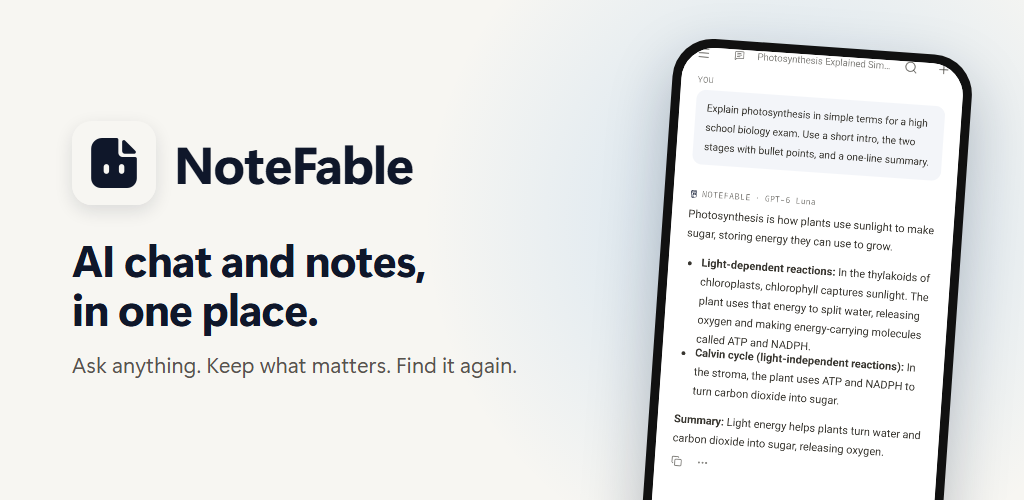
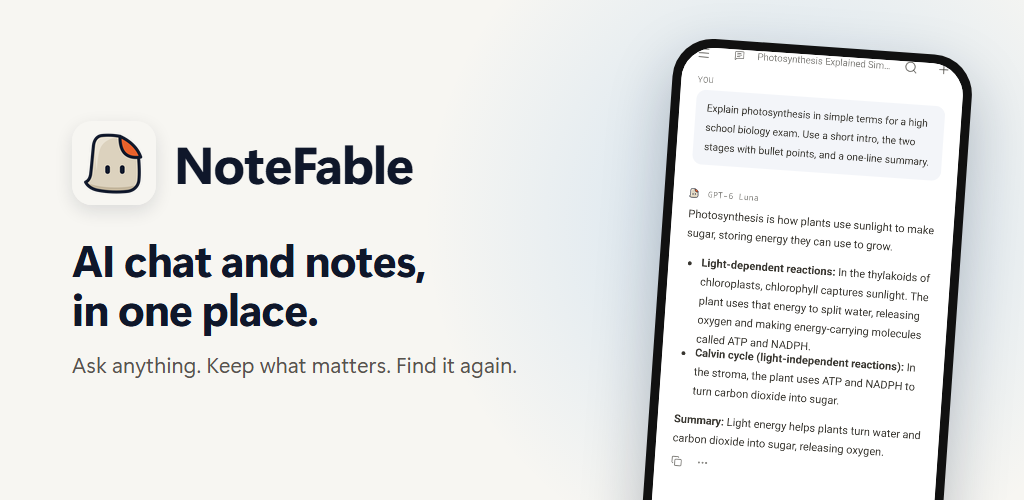
Unify the website, Android launcher and store artwork on Quill

Changed region(s): [[0.0625, 0.27, 0.1562, 0.39], [0.6875, 0.39, 0.7812, 0.42], [0.6562, 0.36, 0.6875, 0.39]]

diff --git a/mobile/android/app/src/main/java/com/kakumine/notefable/ui/Lucide.kt b/mobile/android/app/src/main/java/com/kakumine/notefable/ui/Lucide.kt
@@ -7,12 +7,10 @@ import androidx.compose.runtime.remember
 import androidx.compose.ui.Modifier
 import androidx.compose.ui.geometry.Offset
 import androidx.compose.ui.graphics.Color
-import androidx.compose.ui.graphics.PathFillType
 import androidx.compose.ui.graphics.StrokeCap
 import androidx.compose.ui.graphics.StrokeJoin
 import androidx.compose.ui.graphics.drawscope.Stroke
 import androidx.compose.ui.graphics.drawscope.scale
-import androidx.compose.ui.graphics.drawscope.translate
 import androidx.compose.ui.graphics.vector.PathParser
 import androidx.compose.ui.platform.LocalLayoutDirection
 import androidx.compose.ui.unit.Dp
@@ -284,35 +282,6 @@ fun LucideIcon(
             scale(this.size.width / 24f, pivot = Offset.Zero) {
                 val stroke = Stroke(width = strokeWidth, cap = StrokeCap.Round, join = StrokeJoin.Round)
                 parsed.forEach { drawPath(it, tint, style = stroke) }
-            }
-        }
-    }
-}
-
-// 产品形象（src/components/notefable-logo.tsx）：折了角的便签 + 两只眼睛。品牌标志和空白首页的形象（Mascot.kt）用同一份路径。
-internal const val MascotBody =
-    "M21 9h13.5a1.5 1.5 0 0 1 1.5 1.5v12a4 4 0 0 0 4 4h11.5a1.5 1.5 0 0 1 1.5 1.5V46a9 9 0 0 1-9 9H20a9 9 0 0 1-9-9V19A10 10 0 0 1 21 9Z"
-internal const val MascotFlap =
-    "M39.5 12.4c0-1.3 1.6-2 2.6-1.1l9.6 9.6c.9 1 .3 2.6-1.1 2.6H42a2.5 2.5 0 0 1-2.5-2.5Z"
-private const val MascotEyeHoles =
-    "M22.5 35.5a2.5 2.5 0 0 1 5 0v4a2.5 2.5 0 0 1-5 0ZM36.5 35.5a2.5 2.5 0 0 1 5 0v4a2.5 2.5 0 0 1-5 0Z"
-
-// 品牌标志（网页 BrandMark，viewBox 8 6 48 52）：单色填充，眼睛从身体里镂空。
-@Composable
-fun BrandMark(size: Dp, tint: Color, modifier: Modifier = Modifier) {
-    val body = remember {
-        PathParser().parsePathString(MascotBody + MascotEyeHoles).toPath().apply { fillType = PathFillType.EvenOdd }
-    }
-    val flap = remember { PathParser().parsePathString(MascotFlap).toPath() }
-    Canvas(modifier.size(size)) {
-        // viewBox 48x52 按"保持比例、居中"放进正方形（preserveAspectRatio 默认值）。
-        val s = this.size.height / 52f
-        translate(left = (this.size.width - 48f * s) / 2f) {
-            scale(s, pivot = Offset.Zero) {
-                translate(left = -8f, top = -6f) {
-                    drawPath(body, tint)
-                    drawPath(flap, tint)
-                }
             }
         }
     }

diff --git a/src/components/thread-landing.tsx b/src/components/thread-landing.tsx
@@ -8,7 +8,8 @@ import Link from "next/link";
 import { useEffect, useRef, useState, type ReactNode } from "react";
 import { LanguageMenu } from "@/components/language-menu";
 import { useModels } from "@/components/models-provider";
-import { BrandMark } from "@/components/notefable-logo";
+import { CharacterGraphic } from "@/components/character-avatar";
+import { DEFAULT_CHARACTER_ID } from "@/lib/characters";
 import { LOCALES, type Locale, type LocalePreference } from "@/lib/i18n/locale";
 import { LANDING_HERO, landingTitle } from "@/lib/i18n/landing-meta";
 import { INTRO_HREF, landingPath } from "@/lib/i18n/routing";
@@ -276,7 +277,7 @@ export function ThreadLanding() {
       <a className="tl-skip" href="#tl-main">{t("Skip to content")}</a>
 
       <header className="tl-nav tl-wrap">
-        <Link className="tl-brand" href={INTRO_HREF} aria-label={t("NoteFable home")}><BrandMark /><span>NoteFable</span></Link>
+        <Link className="tl-brand" href={INTRO_HREF} aria-label={t("NoteFable home")}><CharacterGraphic characterId={DEFAULT_CHARACTER_ID} size={26} /><span>NoteFable</span></Link>
         <Link className="tl-nav-cta" href="/app" prefetch={false}>{t("Open workspace")}{" "}<ArrowRight size={15} aria-hidden="true" /></Link>
       </header>
 
@@ -352,7 +353,7 @@ export function ThreadLanding() {
       </main>
 
       <footer className="tl-footer tl-wrap">
-        <span className="tl-brand"><BrandMark size={20} /><span>NoteFable</span></span>
+        <span className="tl-brand"><CharacterGraphic characterId={DEFAULT_CHARACTER_ID} size={20} /><span>NoteFable</span></span>
         <div className="tl-footer-end">
           <LanguageMenu className="tl-language" onChoose={onLandingLocale} />
           <nav aria-label={t("Legal")}><Link href="/privacy">{t("Privacy")}</Link><Link href="/terms">{t("Terms")}</Link><Link href="/legal-notice">{t("Commercial disclosure")}</Link></nav>

diff --git a/src/app/layout.tsx b/src/app/layout.tsx
@@ -25,10 +25,6 @@ export const metadata: Metadata = {
   title: "NoteFable",
   // Next.js の Metadata API へ渡すページ説明。
   description: "A personal space for AI conversations, notes, and ideas.",
-  // 古い favicon キャッシュを拾いにくくするため、使うアイコンを明示する。
-  icons: {
-    icon: [{ url: "/icon.svg", type: "image/svg+xml", sizes: "any" }],
-  },
 };
 
 // モバイルのキーボード表示時も本文の表示領域を追従させる。

diff --git a/mobile/android/play-store/README.md b/mobile/android/play-store/README.md
@@ -4,7 +4,7 @@
 
 | 文件 | 用途 | 规格 |
 | --- | --- | --- |
-| `icon-512.png` | 应用图标 | 512×512 PNG，满版方形（Play 自己加圆角），与 `public/icon.svg` 同一图形 |
+| `icon-512.png` | 应用图标 | 512×512 PNG，满版方形（Play 自己加圆角），与 `src/app/icon.svg` 同一图形 |
 | `feature-graphic-1024x500.png` | 置顶大图 | 1024×500 PNG |
 | `screenshots/01-…05-*.png` | 手机屏幕截图 | 1080×1920（9:16），按文件名顺序上传 |
 
